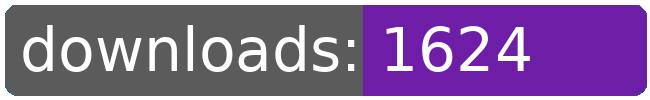
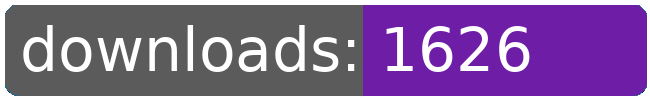
dl log written

Changed region(s): [[0.7692, 0.24, 0.8308, 0.72]]

diff --git a/README.md b/README.md
@@ -142,8 +142,8 @@
 		<td>2148</td>
 		<td>2152</td>
 		<td>2162</td>
-		<td>2171</td>
-		<td>+ 9</td>
+		<td>2173</td>
+		<td>+ 11</td>
 	</tr>
 	<tr>
 		<td>purchase.bactrian</td>
@@ -230,8 +230,8 @@
 		<td>1608</td>
 		<td>1614</td>
 		<td>1620</td>
-		<td>1624</td>
-		<td>+ 4</td>
+		<td>1626</td>
+		<td>+ 6</td>
 	</tr>
 	<tr>
 		<td>zoom.extension</td>
@@ -252,8 +252,8 @@
 		<td></td>
 		<td></td>
 		<td></td>
-		<td>41546</td>
-		<td>232</td>
+		<td>41550</td>
+		<td>236</td>
 	</tr>
 </table>
 </sub></sup>
@@ -377,8 +377,8 @@
 		<td>2148</td>
 		<td>2152</td>
 		<td>2162</td>
-		<td>2171</td>
-		<td>+ 9</td>
+		<td>2173</td>
+		<td>+ 11</td>
 	</tr>
 	<tr>
 		<td>unlimited.dfc</td>
@@ -432,8 +432,8 @@
 		<td>1608</td>
 		<td>1614</td>
 		<td>1620</td>
-		<td>1624</td>
-		<td>+ 4</td>
+		<td>1626</td>
+		<td>+ 6</td>
 	</tr>
 	<tr>
 		<td>zoom.extension</td>
@@ -509,8 +509,8 @@
 		<td></td>
 		<td></td>
 		<td></td>
-		<td>41546</td>
-		<td>232</td>
+		<td>41550</td>
+		<td>236</td>
 	</tr>
 </table>
 </sub></sup>
